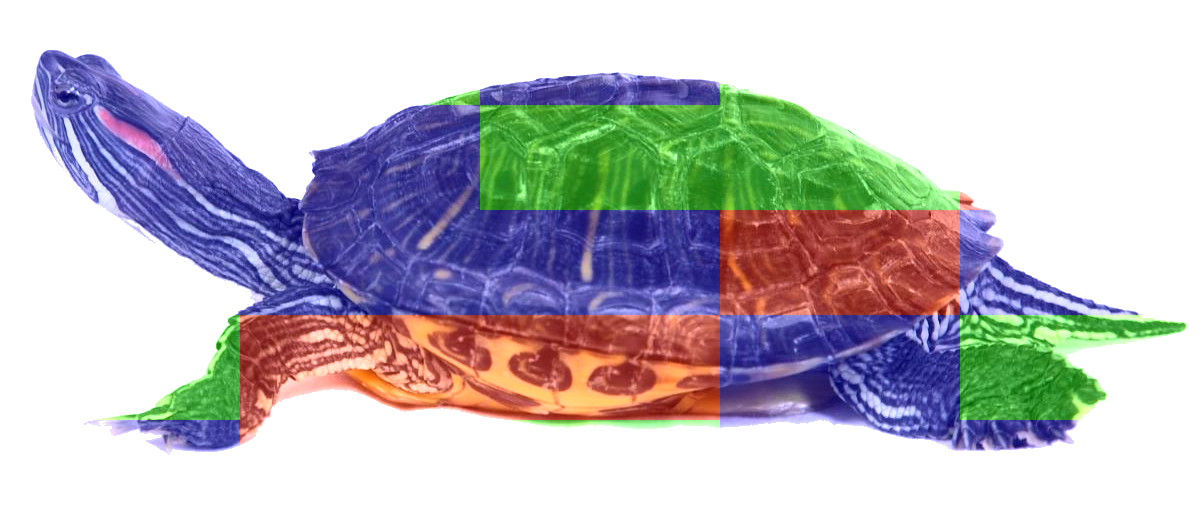
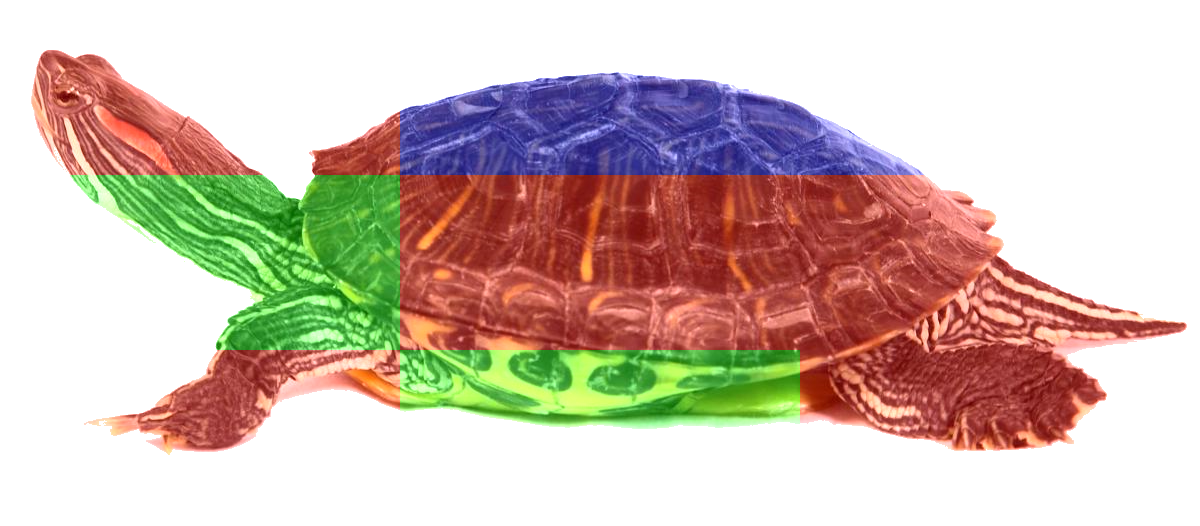
stuff

diff --git a/__main__.py b/__main__.py
@@ -36,7 +36,7 @@ if __name__ == "__main__":
     img = cv2.imread("C:/ws_intern/src/PythonFilter/Sea-Turtle-PNG-Clipart.png")
 
     rows, cols ,_= img.shape
-    size = 5
+    size = 3
 
     threads = []
     print(f"size of picture : {rows} x {cols}")
